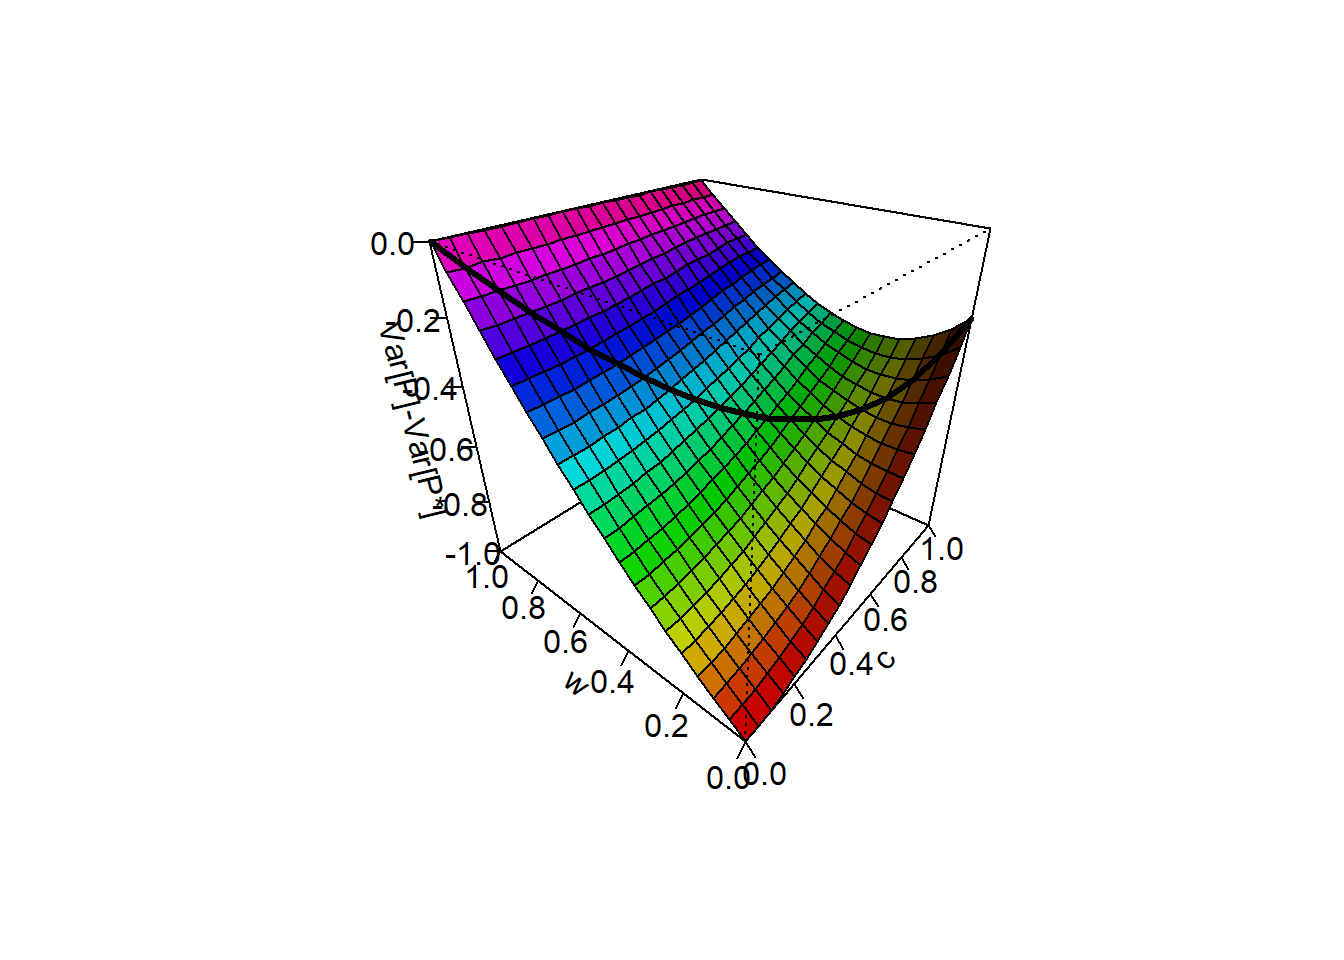
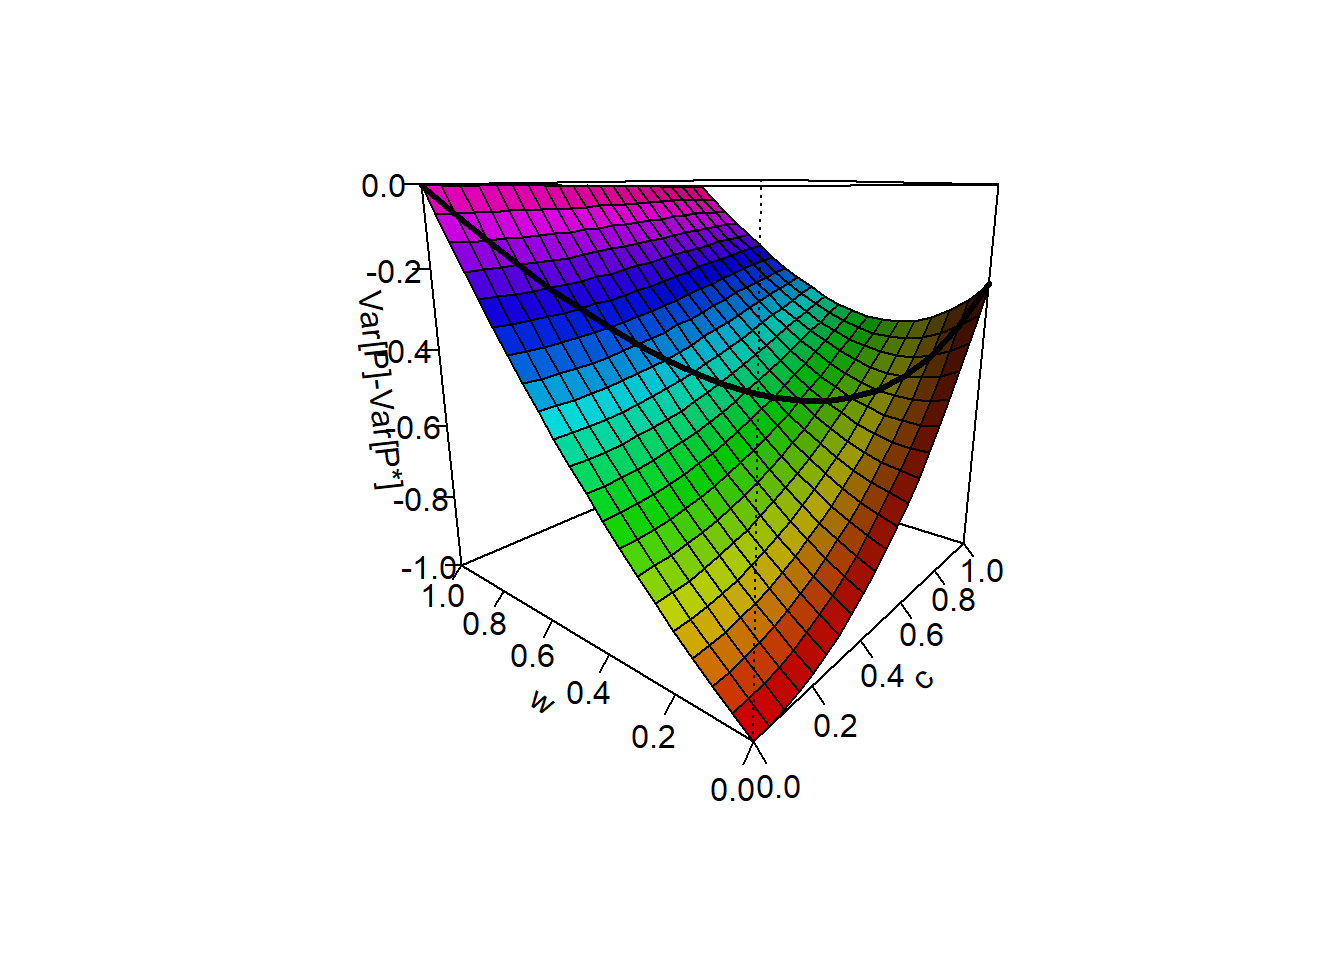
update

Changed region(s): [[0.25, 0.1875, 0.75, 0.8438]]

diff --git a/public/research/etf持股影响股票定价效率的理论模型推导/index.html b/public/research/etf持股影响股票定价效率的理论模型推导/index.html
@@ -152,11 +152,11 @@ s.t \hspace{0.4cm} W_i=\bar\theta P+\theta_i(V-P)\]</span></p>
 <p>当信息不对称时，两类投资者掌握的信息不同，知情投资者掌握股票价值和价格信息，非知情投资者掌握价格信息，只能通过价格来推断资产价值信息。由于信息不对称条件下，求解比较复杂，参考Yang Bai et al.研究，我们先猜测一种均衡下的价格函数，在此价格函数下推导出投资者的需求，并证明在此均衡价格下市场出清。我们认为股票价格取决于经济状态变量，受交易成本和噪声影响，且股票价格只取决于信号<span class="math inline">\(S=\frac{1}{2}(F-c\varepsilon)\)</span>，股票价格是<span class="math inline">\(S\)</span>的严格增函数。其中，<span class="math inline">\(\varepsilon \sim U[-a_F,a_F]\)</span>，<span class="math inline">\(0&lt; c\leq 1\)</span>，<span class="math inline">\(\frac{(1+c)a_F}{2}\ge S\leq \frac{(1+c)a_F}{2}\)</span>。</p>
 <p>对于知情交易者来说，在信息集<span class="math inline">\(I=\{F,P\}\)</span>下的需求函数为：</p>
 <p><span class="math display">\[\theta_I==\frac{F-P}{\sigma_u^2}\]</span></p>
-<p>对于非知情交易者来说，在信息集<span class="math inline">\(I=\{P\}\)</span>下，<span class="math inline">\(E[F|I_U]=E[F|P]=E[F|S]\)</span>，<span class="math inline">\(Var[F|I_U]=Var[F|P]=Var[F|S]\)</span>。由于<span class="math inline">\(c\varepsilon\)</span>与<span class="math inline">\(F\)</span>独立同分布，则其联合密度函数为<span class="math inline">\(f(F,\varepsilon)=f_F(F)f_{\varepsilon}(\varepsilon)\)</span>，且<span class="math inline">\(\varepsilon=\frac{F-2S}{c}\)</span>，则<span class="math inline">\(S\)</span>的概率密度函数为：</p>
+<p>对于非知情交易者来说，在信息集<span class="math inline">\(I=\{P\}\)</span>下，<span class="math inline">\(E[F|I_U]=E[F|P]=E[F|S]\)</span>，<span class="math inline">\(Var[F|I_U]=Var[F|P]=Var[F|S]\)</span>。由于<span class="math inline">\(\varepsilon\)</span>与<span class="math inline">\(F\)</span>独立同分布，则其联合密度函数为<span class="math inline">\(f(F,\varepsilon)=f_F(F)f_{\varepsilon}(\varepsilon)\)</span>，且<span class="math inline">\(\varepsilon=\frac{F-2S}{c}\)</span>，则<span class="math inline">\(S\)</span>的概率密度函数为：</p>
 <p><span class="math display">\[f(S)=\int f(F,\frac{F-2S}{c})dF=\int f_F(F)f_{\varepsilon}(\frac{F-2S}{c})dF\\
  \hspace{5cm}=\frac{1}{4a_F^2}\int I[-a_F&lt;F&lt;a_F]I[-ca_F+2S&lt;F&lt;ca_F+2S]dF\]</span></p>
 <p>由于<span class="math inline">\(F\)</span>同时属于区间<span class="math inline">\([-a_F&lt;F&lt;a_F]\)</span>和<span class="math inline">\([-ca_F+2S&lt;F&lt;ca_F+2S]\)</span>，则需要取其交集，对<span class="math inline">\(S\)</span>进行讨论。</p>
-<p>当$S  <span class="math inline">\(时，\)</span>F$，则</p>
+<p>当<span class="math inline">\(\frac{(1-c)a_F}{2}\le S \le \frac{(1+c)a_F}{2}\)</span>时，<span class="math inline">\(F\in [-ca_F+2S,a_F]\)</span>，则</p>
 <p><span class="math display">\[f(S)=\frac{1}{4a_F^2}\int _{-ca_F+2S}^{a_F}dF=\frac{(1+c)a_F-2S}{4a_F^2}\]</span></p>
 <p>当<span class="math inline">\(-\frac{(1+c)a_F}{2}\le S\le-\frac{(1-c)a_F}{2}\)</span>时，<span class="math inline">\(F\in [-a_F,ca_F+2S]\)</span>，则</p>
 <p><span class="math display">\[f(S)=\frac{1}{4a_F^2}\int _{-a_F}^{ca_F+2S}dF=\frac{(1+c)a_F+2S}{4a_F^2}\]</span>
@@ -396,14 +396,14 @@ Empo&lt;-mp%&gt;%mutate(EPdif=mP-optima$mP,EVdif=mp$VR-optima$VR)
 
 nmp&lt;-Reduce(function(x,y)rbind(x,y),future_lapply((1-seq(0,1,0.05)),mpf,seq(0,1,0.05)))
 nmp&lt;-nmp[nmp$w==(1-nmp$c),]%&gt;%mutate(mP=mP-optima$mP,VR=VR-optima$VR)
-res&lt;-persp(c,w, matrix(Empo$EPdif,21,21), theta = 30, shade = 0.75,col =rainbow(441),ltheta=30,ticktype=&quot;detailed&quot;,xlab = &quot;c&quot;,zlab = &quot;E[P]-E[P*]&quot;)
+res&lt;-persp(c,w, matrix(Empo$EPdif,21,21), theta = 30,phi = 30, shade = 0.75,col =rainbow(441),ltheta=30,ticktype=&quot;detailed&quot;,xlab = &quot;c&quot;,zlab = &quot;E[P]-E[P*]&quot;)
 
 lines(trans3d(nmp$c,nmp$w,nmp$mP,pmat = res) ,type = &quot;l&quot;,lwd=3)</code></pre>
 <p><img src="/research/2021-01-14-etf持股影响股票定价效率的理论模型推导_files/figure-html/unnamed-chunk-4-1.png" width="672" /></p>
 <pre class="r"><code>plot(nmp$w,nmp$mP,type = &quot;l&quot;,lwd=3)
 abline(h=0,col=&quot;red&quot;)</code></pre>
 <p><img src="/research/2021-01-14-etf持股影响股票定价效率的理论模型推导_files/figure-html/unnamed-chunk-4-2.png" width="672" /></p>
-<pre class="r"><code>res&lt;-persp(c,w, matrix(Empo$EVdif,21,21), theta = -50, shade = 0.75,col =rainbow(441),ltheta=30,phi = 30,ticktype=&quot;detailed&quot;,xlab = &quot;c&quot;,zlab = &quot;Var[P]-Var[P*]&quot;)
+<pre class="r"><code>res&lt;-persp(c,w, matrix(Empo$EVdif,21,21), theta = -50, shade = 0.75,col =rainbow(441),ltheta=30,ticktype=&quot;detailed&quot;,xlab = &quot;c&quot;,zlab = &quot;Var[P]-Var[P*]&quot;)
 lines(trans3d(nmp$c,nmp$w,nmp$VR,pmat = res) ,type = &quot;l&quot;,lwd=3)</code></pre>
 <p><img src="/research/2021-01-14-etf持股影响股票定价效率的理论模型推导_files/figure-html/unnamed-chunk-4-3.png" width="672" /></p>
 <pre class="r"><code>plot(nmp$w,nmp$VR,type = &quot;l&quot;,lwd=3)
@@ -412,6 +412,9 @@ abline(h=0,col=&quot;red&quot;)</code></pre>
 <blockquote>
 <p>(3)信息不对称下卖空限制对定价效率的影响</p>
 </blockquote>
+<p>我们假设投资者受卖空限制约束，对于投资者<span class="math inline">\(i(i=I,U)\)</span>来说，其持有的股票头寸大于某个非正常数<span class="math inline">\(\theta_i\ge-b_i,b_i\ge0\)</span>，为了方便，我们假设卖空限制在同类投资者相同，但不同投资者者中不同，特别对于知情投资者来说，其可以持有空头头寸到<span class="math inline">\(b_i\)</span>。</p>
+<p>根据效用最大化一阶条件，投资者的最优持股为：</p>
+<p><span class="math display">\[\theta_i=max\bigg[\frac{(E[F|I_i]-P)}{Var[F|I_i]+\sigma_u^2},-b_i\bigg]\]</span></p>
 </div>
 
 

diff --git a/content/research/2021-01-14-etf持股影响股票定价效率的理论模型推导.html b/content/research/2021-01-14-etf持股影响股票定价效率的理论模型推导.html
@@ -71,11 +71,11 @@ s.t \hspace{0.4cm} W_i=\bar\theta P+\theta_i(V-P)\]</span></p>
 <p>当信息不对称时，两类投资者掌握的信息不同，知情投资者掌握股票价值和价格信息，非知情投资者掌握价格信息，只能通过价格来推断资产价值信息。由于信息不对称条件下，求解比较复杂，参考Yang Bai et al.研究，我们先猜测一种均衡下的价格函数，在此价格函数下推导出投资者的需求，并证明在此均衡价格下市场出清。我们认为股票价格取决于经济状态变量，受交易成本和噪声影响，且股票价格只取决于信号<span class="math inline">\(S=\frac{1}{2}(F-c\varepsilon)\)</span>，股票价格是<span class="math inline">\(S\)</span>的严格增函数。其中，<span class="math inline">\(\varepsilon \sim U[-a_F,a_F]\)</span>，<span class="math inline">\(0&lt; c\leq 1\)</span>，<span class="math inline">\(\frac{(1+c)a_F}{2}\ge S\leq \frac{(1+c)a_F}{2}\)</span>。</p>
 <p>对于知情交易者来说，在信息集<span class="math inline">\(I=\{F,P\}\)</span>下的需求函数为：</p>
 <p><span class="math display">\[\theta_I==\frac{F-P}{\sigma_u^2}\]</span></p>
-<p>对于非知情交易者来说，在信息集<span class="math inline">\(I=\{P\}\)</span>下，<span class="math inline">\(E[F|I_U]=E[F|P]=E[F|S]\)</span>，<span class="math inline">\(Var[F|I_U]=Var[F|P]=Var[F|S]\)</span>。由于<span class="math inline">\(c\varepsilon\)</span>与<span class="math inline">\(F\)</span>独立同分布，则其联合密度函数为<span class="math inline">\(f(F,\varepsilon)=f_F(F)f_{\varepsilon}(\varepsilon)\)</span>，且<span class="math inline">\(\varepsilon=\frac{F-2S}{c}\)</span>，则<span class="math inline">\(S\)</span>的概率密度函数为：</p>
+<p>对于非知情交易者来说，在信息集<span class="math inline">\(I=\{P\}\)</span>下，<span class="math inline">\(E[F|I_U]=E[F|P]=E[F|S]\)</span>，<span class="math inline">\(Var[F|I_U]=Var[F|P]=Var[F|S]\)</span>。由于<span class="math inline">\(\varepsilon\)</span>与<span class="math inline">\(F\)</span>独立同分布，则其联合密度函数为<span class="math inline">\(f(F,\varepsilon)=f_F(F)f_{\varepsilon}(\varepsilon)\)</span>，且<span class="math inline">\(\varepsilon=\frac{F-2S}{c}\)</span>，则<span class="math inline">\(S\)</span>的概率密度函数为：</p>
 <p><span class="math display">\[f(S)=\int f(F,\frac{F-2S}{c})dF=\int f_F(F)f_{\varepsilon}(\frac{F-2S}{c})dF\\
  \hspace{5cm}=\frac{1}{4a_F^2}\int I[-a_F&lt;F&lt;a_F]I[-ca_F+2S&lt;F&lt;ca_F+2S]dF\]</span></p>
 <p>由于<span class="math inline">\(F\)</span>同时属于区间<span class="math inline">\([-a_F&lt;F&lt;a_F]\)</span>和<span class="math inline">\([-ca_F+2S&lt;F&lt;ca_F+2S]\)</span>，则需要取其交集，对<span class="math inline">\(S\)</span>进行讨论。</p>
-<p>当$S  <span class="math inline">\(时，\)</span>F$，则</p>
+<p>当<span class="math inline">\(\frac{(1-c)a_F}{2}\le S \le \frac{(1+c)a_F}{2}\)</span>时，<span class="math inline">\(F\in [-ca_F+2S,a_F]\)</span>，则</p>
 <p><span class="math display">\[f(S)=\frac{1}{4a_F^2}\int _{-ca_F+2S}^{a_F}dF=\frac{(1+c)a_F-2S}{4a_F^2}\]</span></p>
 <p>当<span class="math inline">\(-\frac{(1+c)a_F}{2}\le S\le-\frac{(1-c)a_F}{2}\)</span>时，<span class="math inline">\(F\in [-a_F,ca_F+2S]\)</span>，则</p>
 <p><span class="math display">\[f(S)=\frac{1}{4a_F^2}\int _{-a_F}^{ca_F+2S}dF=\frac{(1+c)a_F+2S}{4a_F^2}\]</span>
@@ -315,14 +315,14 @@ Empo&lt;-mp%&gt;%mutate(EPdif=mP-optima$mP,EVdif=mp$VR-optima$VR)
 
 nmp&lt;-Reduce(function(x,y)rbind(x,y),future_lapply((1-seq(0,1,0.05)),mpf,seq(0,1,0.05)))
 nmp&lt;-nmp[nmp$w==(1-nmp$c),]%&gt;%mutate(mP=mP-optima$mP,VR=VR-optima$VR)
-res&lt;-persp(c,w, matrix(Empo$EPdif,21,21), theta = 30, shade = 0.75,col =rainbow(441),ltheta=30,ticktype=&quot;detailed&quot;,xlab = &quot;c&quot;,zlab = &quot;E[P]-E[P*]&quot;)
+res&lt;-persp(c,w, matrix(Empo$EPdif,21,21), theta = 30,phi = 30, shade = 0.75,col =rainbow(441),ltheta=30,ticktype=&quot;detailed&quot;,xlab = &quot;c&quot;,zlab = &quot;E[P]-E[P*]&quot;)
 
 lines(trans3d(nmp$c,nmp$w,nmp$mP,pmat = res) ,type = &quot;l&quot;,lwd=3)</code></pre>
 <p><img src="/research/2021-01-14-etf持股影响股票定价效率的理论模型推导_files/figure-html/unnamed-chunk-4-1.png" width="672" /></p>
 <pre class="r"><code>plot(nmp$w,nmp$mP,type = &quot;l&quot;,lwd=3)
 abline(h=0,col=&quot;red&quot;)</code></pre>
 <p><img src="/research/2021-01-14-etf持股影响股票定价效率的理论模型推导_files/figure-html/unnamed-chunk-4-2.png" width="672" /></p>
-<pre class="r"><code>res&lt;-persp(c,w, matrix(Empo$EVdif,21,21), theta = -50, shade = 0.75,col =rainbow(441),ltheta=30,phi = 30,ticktype=&quot;detailed&quot;,xlab = &quot;c&quot;,zlab = &quot;Var[P]-Var[P*]&quot;)
+<pre class="r"><code>res&lt;-persp(c,w, matrix(Empo$EVdif,21,21), theta = -50, shade = 0.75,col =rainbow(441),ltheta=30,ticktype=&quot;detailed&quot;,xlab = &quot;c&quot;,zlab = &quot;Var[P]-Var[P*]&quot;)
 lines(trans3d(nmp$c,nmp$w,nmp$VR,pmat = res) ,type = &quot;l&quot;,lwd=3)</code></pre>
 <p><img src="/research/2021-01-14-etf持股影响股票定价效率的理论模型推导_files/figure-html/unnamed-chunk-4-3.png" width="672" /></p>
 <pre class="r"><code>plot(nmp$w,nmp$VR,type = &quot;l&quot;,lwd=3)
@@ -331,4 +331,7 @@ abline(h=0,col=&quot;red&quot;)</code></pre>
 <blockquote>
 <p>(3)信息不对称下卖空限制对定价效率的影响</p>
 </blockquote>
+<p>我们假设投资者受卖空限制约束，对于投资者<span class="math inline">\(i(i=I,U)\)</span>来说，其持有的股票头寸大于某个非正常数<span class="math inline">\(\theta_i\ge-b_i,b_i\ge0\)</span>，为了方便，我们假设卖空限制在同类投资者相同，但不同投资者者中不同，特别对于知情投资者来说，其可以持有空头头寸到<span class="math inline">\(b_i\)</span>。</p>
+<p>根据效用最大化一阶条件，投资者的最优持股为：</p>
+<p><span class="math display">\[\theta_i=max\bigg[\frac{(E[F|I_i]-P)}{Var[F|I_i]+\sigma_u^2},-b_i\bigg]\]</span></p>
 </div>
